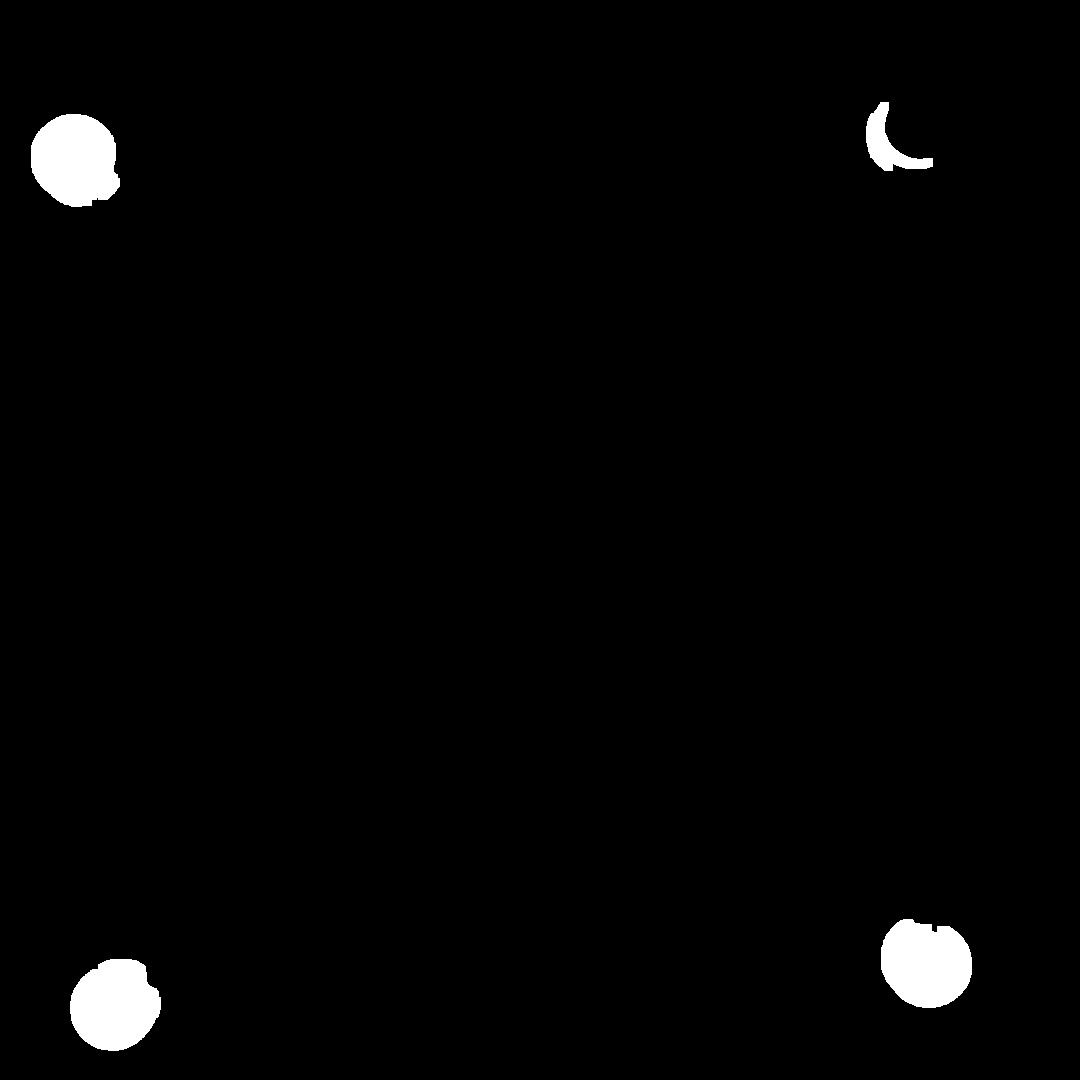
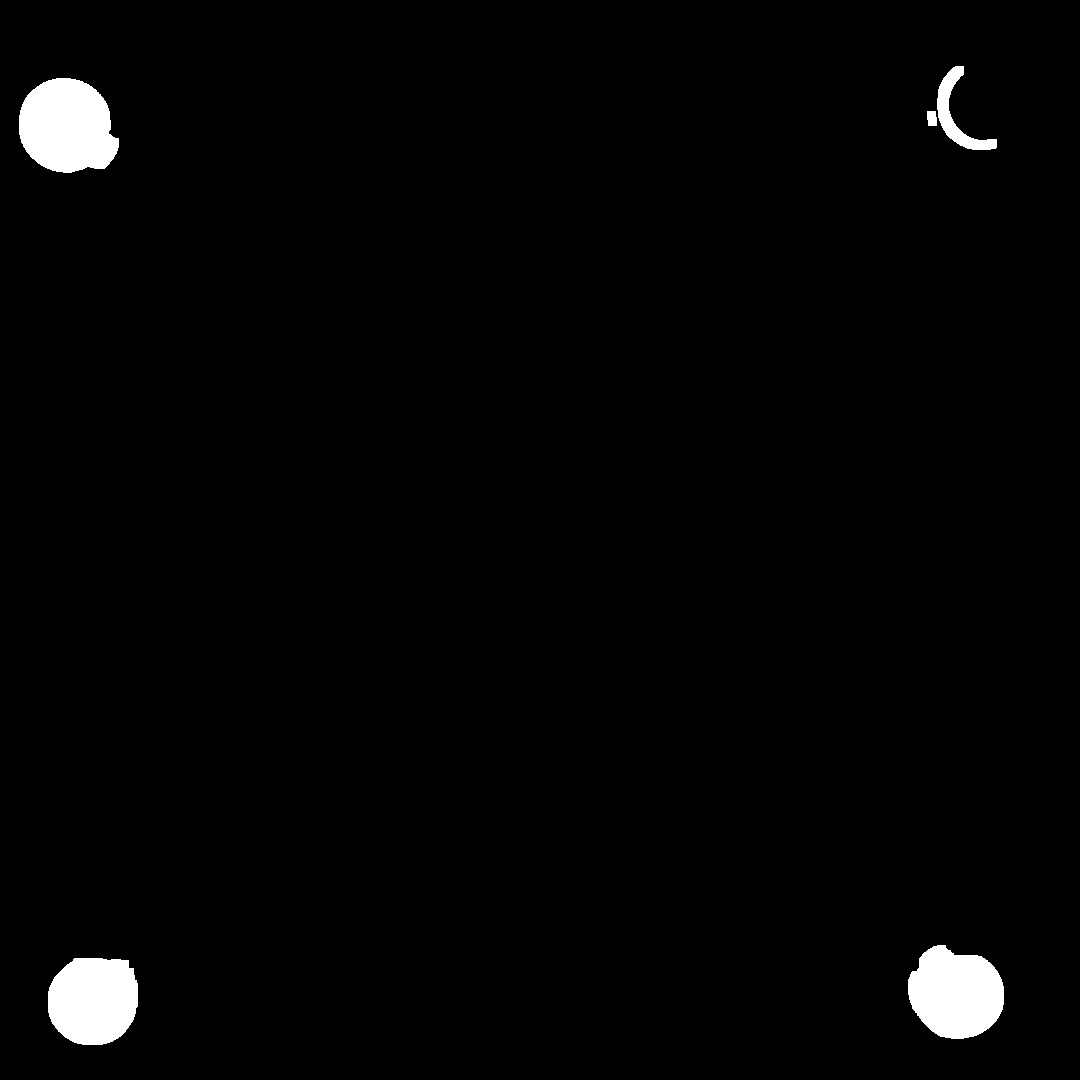
rollback more features

diff --git a/warcabyrevisited/engine.py b/warcabyrevisited/engine.py
@@ -191,14 +191,22 @@ def ex_1():
                     Y_Coord_TMP -= boardTileLength
                     Y_Index_TMP += 1
                 stateOfTheGameListCapture[Y_Index_TMP][X_Index_TMP] = RED_CHECKER_VALUE
+    loadImagesToFrames(False)
 
+
+    cv2.destroyAllWindows()
+
+def loadImagesToFrames(is_rollback):
     renderedGame = graphicsEngine.renderGameState()
     resizedRenderedGame = cv2.resize(renderedGame, (400, 400))
     cv2.imwrite('images/renderedGame.jpg', resizedRenderedGame)
 
-    photo1 = ImageTk.PhotoImage(Image.open("images/screen1.jpg"))
-    app.reloadImageData("state", photo1, fmt="PhotoImage")
+    if(is_rollback):
+        photo1 = ImageTk.PhotoImage(Image.open("images/initCapturedImage.jpg"))
+        app.reloadImageData("state", photo1, fmt="PhotoImage")
+    else:
+        photo1 = ImageTk.PhotoImage(Image.open("images/screen1.jpg"))
+        app.reloadImageData("state", photo1, fmt="PhotoImage")
+
     photo2 = ImageTk.PhotoImage(Image.open("images/renderedGame.jpg"))
     app.reloadImageData("renderedGame", photo2, fmt="PhotoImage")
-
-    cv2.destroyAllWindows()

diff --git a/warcabyrevisited/AI.py b/warcabyrevisited/AI.py
@@ -1,7 +1,6 @@
 import GUI
 import engine
 
-
 def save_move():
     if(engine.IsEvenCapture == False):
         engine.GLOBALstateOfTheGameList1 = engine.stateOfTheGameListCapture
@@ -33,8 +32,11 @@ def save_move():
 def rollback():
     if(engine.IsEvenCapture == False):
         engine.GLOBALstateOfTheGameList1 = engine.GLOBALstateOfThePreviousMove
+        engine.stateOfTheGameListCapture = engine.GLOBALstateOfThePreviousMove
     else:
         engine.GLOBALstateOfTheGameList2 = engine.GLOBALstateOfThePreviousMove
+        engine.stateOfTheGameListCapture = engine.GLOBALstateOfThePreviousMove
+
     engine.IsPlayer1 = not engine.IsPlayer1
     engine.IsEvenCapture = not engine.IsEvenCapture
 
@@ -42,6 +44,10 @@ def rollback():
         GUI.setLabel("Player", "red", "Czerwony")
     else:
         GUI.setLabel("Player", "green", "Zielony")
+
+    engine.loadImagesToFrames(True)
+    GUI.setLabel("Status", "white", "")
+
     return
 
 def legal_moves(x, y):
